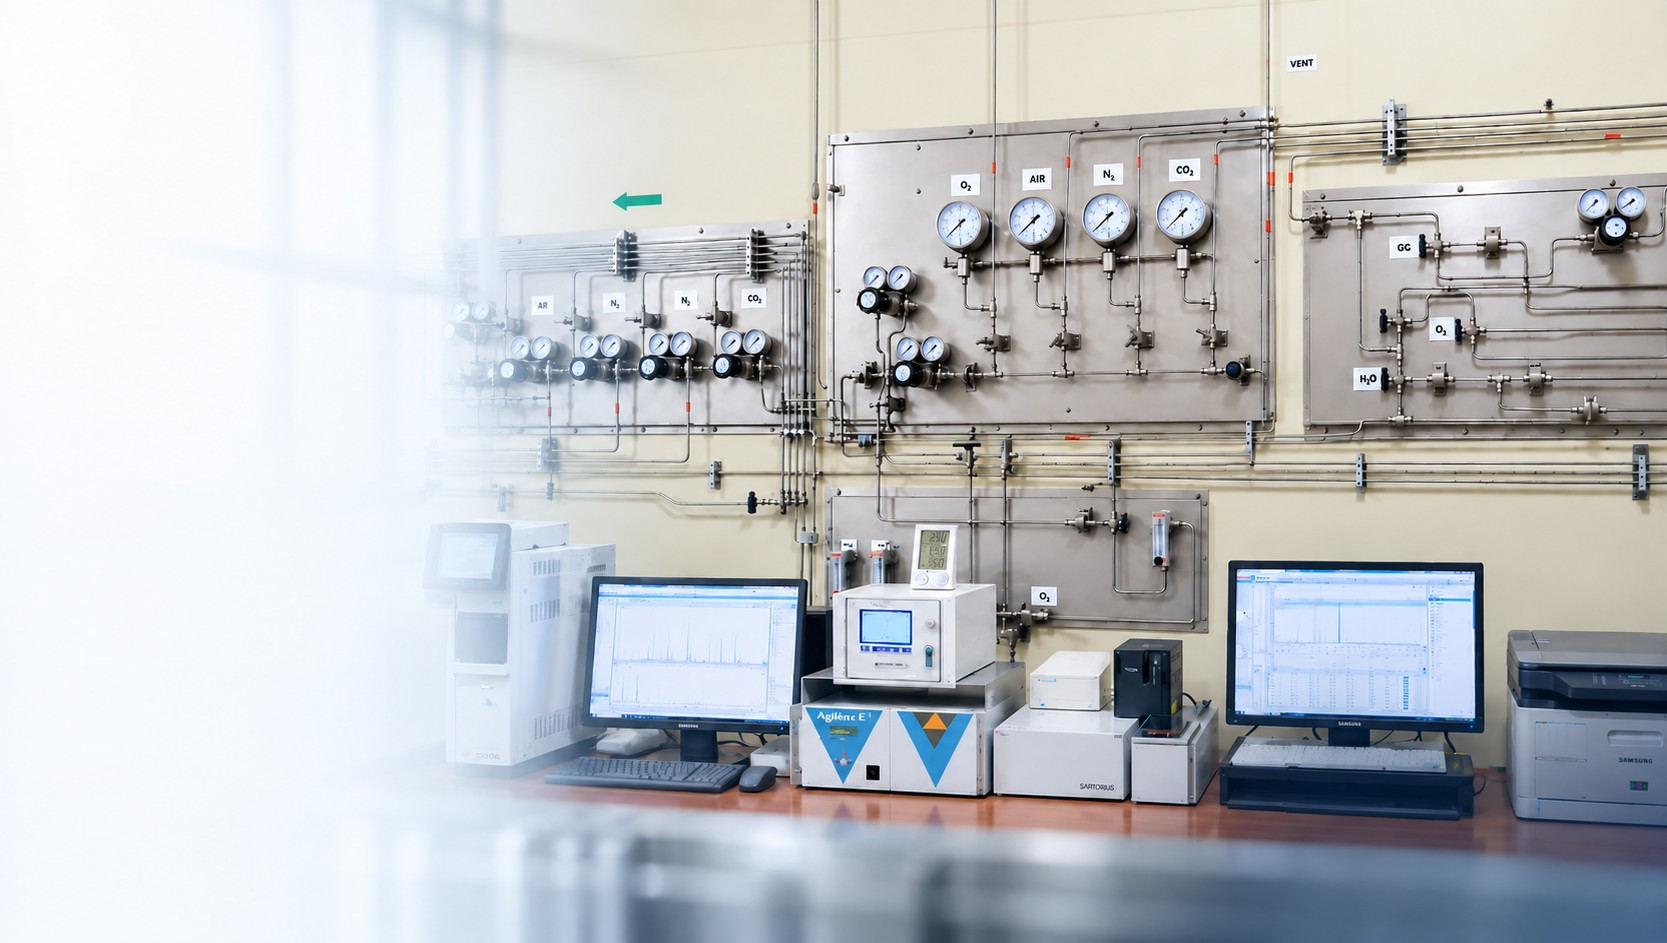
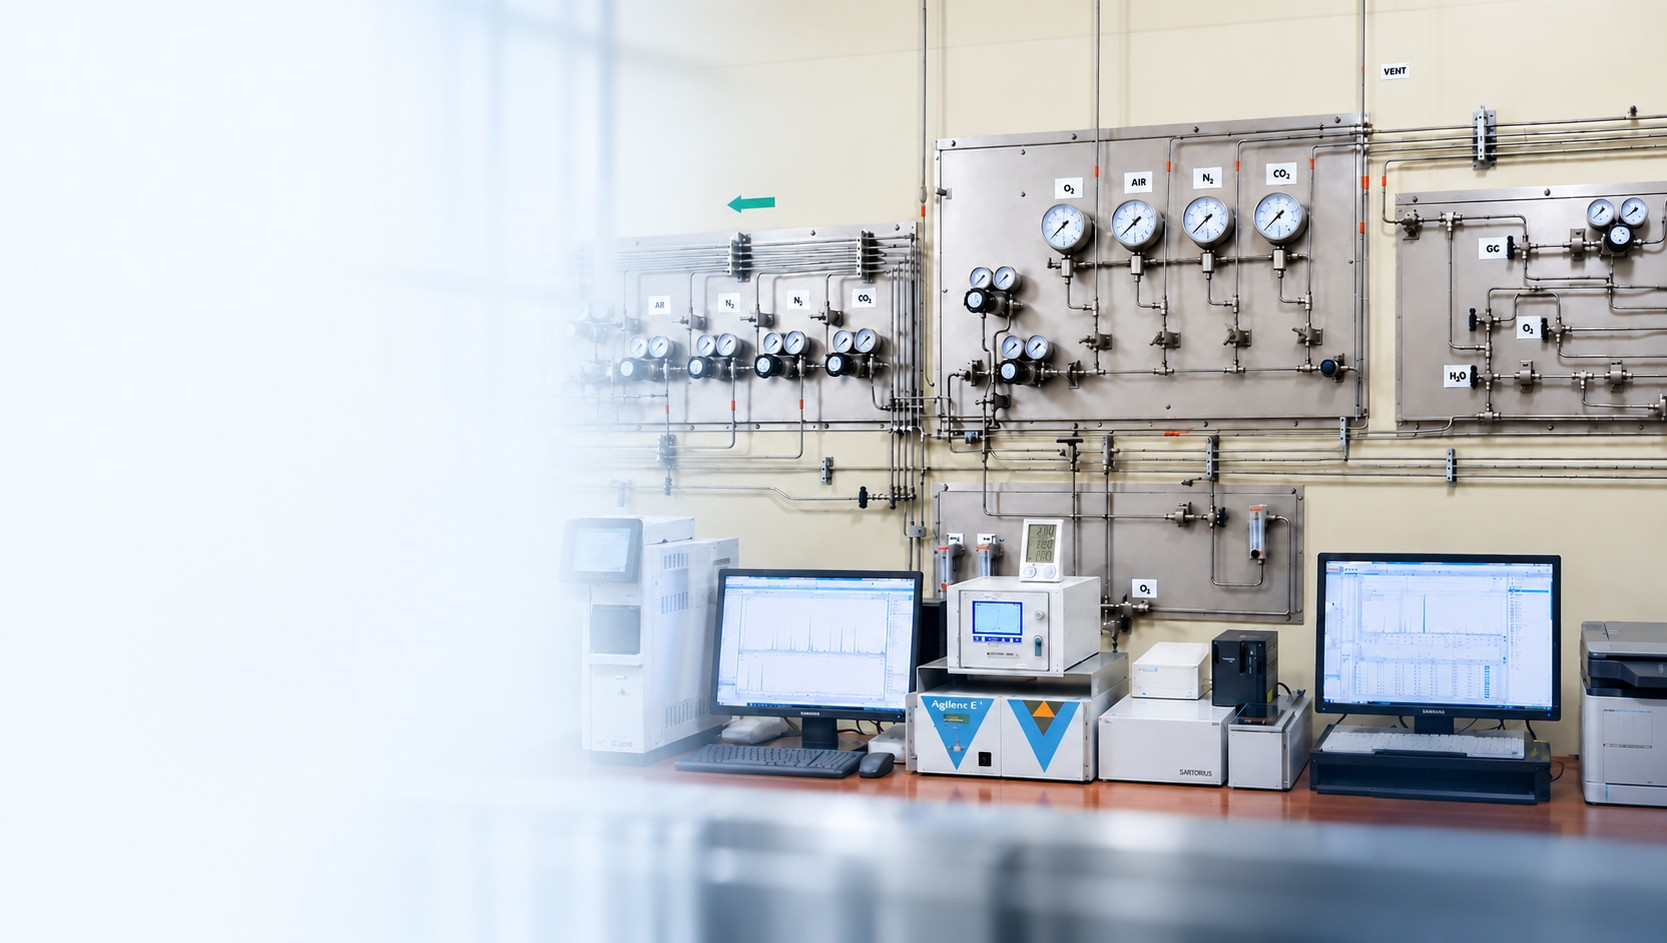
품질·인증 가스분석실 사진을 신규 이미지로 교체(gas-analysis-lab?v=2), 크기 동일 유지·그림자 제거. style.css ?v=616

diff --git a/assets/css/style.css b/assets/css/style.css
@@ -2299,7 +2299,7 @@ html[lang="en"] .greeting__sign .sign-name { display: block; margin-left: 0; mar
 .qlab__bg { position: absolute; inset: 0; width: 100%; height: 100%; object-fit: cover; object-position: right center; transform: scale(0.85); transform-origin: right center; z-index: 0; }
 /* 배경 이미지만 표시(넓은 배너 크롭) */
 .qlab--imgonly { background: none; box-shadow: none; border-radius: 0; overflow: visible; }
-.qlab--imgonly .qlab__bg { position: static; inset: auto; width: 70%; max-width: none; height: auto; aspect-ratio: 1.95 / 1; object-fit: cover; object-position: center; transform: none; display: block; margin: 0 auto; border-radius: var(--radius-lg); box-shadow: var(--shadow-md); }
+.qlab--imgonly .qlab__bg { position: static; inset: auto; width: 70%; max-width: none; height: auto; aspect-ratio: 1.95 / 1; object-fit: cover; object-position: center; transform: none; display: block; margin: 0 auto; border-radius: var(--radius-lg); box-shadow: none; }
 .qlab__panel { position: relative; z-index: 1; width: min(52%, 500px); min-height: 340px; padding: var(--space-8) var(--space-8) var(--space-7); background: linear-gradient(100deg, rgba(243,247,252,.98) 62%, rgba(243,247,252,.82) 82%, rgba(243,247,252,0) 100%); display: flex; flex-direction: column; justify-content: center; }
 .qlab__eyebrow { font-size: .8rem; font-weight: 800; letter-spacing: .18em; color: var(--brand); }
 .qlab__title { margin: var(--space-2) 0 var(--space-4); font-size: clamp(2rem, 3.2vw, 2.6rem); font-weight: 800; color: var(--text); letter-spacing: -.01em; }

diff --git a/quality.html b/quality.html
@@ -7,7 +7,7 @@
   <meta name="description" content="고순도 제조 역량, 식품첨가물 탄산가스 품질, 용기검사장, Gas Service Team.">
   <link rel="stylesheet" href="assets/css/reset.css">
   <link rel="stylesheet" href="assets/css/variables.css?v=20260801">
-  <link rel="stylesheet" href="assets/css/style.css?v=20260731-615">
+  <link rel="stylesheet" href="assets/css/style.css?v=20260731-616">
 </head>
 <body>
 
@@ -140,7 +140,7 @@
     <section class="section section--soft" id="purity">
       <div class="container">
         <div class="qlab qlab--imgonly">
-          <img class="qlab__bg" src="assets/images/site/gas-analysis-lab.jpg?v=1" alt="가스분석실 — 정밀 분석장비" loading="lazy">
+          <img class="qlab__bg" src="assets/images/site/gas-analysis-lab.jpg?v=2" alt="가스분석실 — 정밀 분석장비" loading="lazy">
         </div>
       </div>
     </section>

diff --git a/company.html b/company.html
@@ -7,7 +7,7 @@
   <meta name="description" content="한국탄산화학㈜ 회사소개 — 회사 개요, 주요 사업 영역, 연혁, 조직도, 생산시설 및 강점.">
   <link rel="stylesheet" href="assets/css/reset.css">
   <link rel="stylesheet" href="assets/css/variables.css?v=20260801">
-  <link rel="stylesheet" href="assets/css/style.css?v=20260731-615">
+  <link rel="stylesheet" href="assets/css/style.css?v=20260731-616">
   <!-- 대표이사 서명용 손글씨 폰트 (한글: Nanum Pen Script, 일어: Yomogi) -->
   <link rel="preconnect" href="https://fonts.googleapis.com">
   <link rel="preconnect" href="https://fonts.gstatic.com" crossorigin>

diff --git a/company-overview.html b/company-overview.html
@@ -8,7 +8,7 @@
   <meta name="description" content="한국탄산화학㈜ 회사 개요와 조직도 — 상호·설립·사업분야·생산제품 및 조직 구성.">
   <link rel="stylesheet" href="assets/css/reset.css">
   <link rel="stylesheet" href="assets/css/variables.css?v=20260801">
-  <link rel="stylesheet" href="assets/css/style.css?v=20260731-615">
+  <link rel="stylesheet" href="assets/css/style.css?v=20260731-616">
   <!-- 대표이사 서명용 손글씨 폰트 (한글: Nanum Pen Script, 일어: Yomogi) -->
   <link rel="preconnect" href="https://fonts.googleapis.com">
   <link rel="preconnect" href="https://fonts.gstatic.com" crossorigin>

diff --git a/company-network.html b/company-network.html
@@ -7,7 +7,7 @@
   <meta name="description" content="한국탄산화학㈜ 계열사 — 관계사 네트워크.">
   <link rel="stylesheet" href="assets/css/reset.css">
   <link rel="stylesheet" href="assets/css/variables.css?v=20260801">
-  <link rel="stylesheet" href="assets/css/style.css?v=20260731-615">
+  <link rel="stylesheet" href="assets/css/style.css?v=20260731-616">
   <!-- 대표이사 서명용 손글씨 폰트 (한글: Nanum Pen Script, 일어: Yomogi) -->
   <link rel="preconnect" href="https://fonts.googleapis.com">
   <link rel="preconnect" href="https://fonts.gstatic.com" crossorigin>

diff --git a/products-supply.html b/products-supply.html
@@ -7,7 +7,7 @@
   <meta name="description" content="고압가스 용기 재검사 — 한국가스안전공사 지정 전문검사기관 ㈜부성테크니컬(계열사)이 접수·내압시험·표면처리·판정의 4단계 검사로 용기 안전을 책임집니다.">
   <link rel="stylesheet" href="assets/css/reset.css">
   <link rel="stylesheet" href="assets/css/variables.css?v=20260801">
-  <link rel="stylesheet" href="assets/css/style.css?v=20260731-615">
+  <link rel="stylesheet" href="assets/css/style.css?v=20260731-616">
 </head>
 <body>
 

diff --git a/products-ice.html b/products-ice.html
@@ -7,7 +7,7 @@
   <meta name="description" content="드라이아이스 너겟·블록 생산설비 日産 36톤. 고밀도 1.60g/㎤·고순도 99.995% 식품용 드라이아이스와 제조공정·용도·취급안전을 소개합니다.">
   <link rel="stylesheet" href="assets/css/reset.css">
   <link rel="stylesheet" href="assets/css/variables.css?v=20260801">
-  <link rel="stylesheet" href="assets/css/style.css?v=20260731-615">
+  <link rel="stylesheet" href="assets/css/style.css?v=20260731-616">
 </head>
 <body>
 

diff --git a/index.html b/index.html
@@ -7,7 +7,7 @@
   <meta name="description" content="한국탄산화학㈜(KLCC)는 산소·질소·아르곤·탄산·수소 등 산업용·의료용 가스와 드라이아이스를 제조·공급하는 전문기업입니다.">
   <link rel="stylesheet" href="assets/css/reset.css">
   <link rel="stylesheet" href="assets/css/variables.css?v=20260801">
-  <link rel="stylesheet" href="assets/css/style.css?v=20260731-615">
+  <link rel="stylesheet" href="assets/css/style.css?v=20260731-616">
 </head>
 <body>
 

diff --git a/products-construction.html b/products-construction.html
@@ -7,7 +7,7 @@
   <meta name="description" content="가스 설비 시설·시공 — 액화가스 저장탱크·기화설비·배관·공급설비를 설계부터 시운전·사후관리까지 원스톱으로 시공합니다.">
   <link rel="stylesheet" href="assets/css/reset.css">
   <link rel="stylesheet" href="assets/css/variables.css?v=20260801">
-  <link rel="stylesheet" href="assets/css/style.css?v=20260731-615">
+  <link rel="stylesheet" href="assets/css/style.css?v=20260731-616">
 </head>
 <body>
 

diff --git a/products-gas.html b/products-gas.html
@@ -7,7 +7,7 @@
   <meta name="description" content="산업용·의료용·혼합·특수·액화석유가스 — 고순도 산소·질소·아르곤·수소·헬륨·탄산·LPG를 Bulk·실린더로 공급·제조합니다.">
   <link rel="stylesheet" href="assets/css/reset.css">
   <link rel="stylesheet" href="assets/css/variables.css?v=20260801">
-  <link rel="stylesheet" href="assets/css/style.css?v=20260731-615">
+  <link rel="stylesheet" href="assets/css/style.css?v=20260731-616">
 </head>
 <body>
 

diff --git a/support.html b/support.html
@@ -7,7 +7,7 @@
   <meta name="description" content="한국탄산화학 고객지원 — 사업장 연락처, 자주 묻는 질문.">
   <link rel="stylesheet" href="assets/css/reset.css">
   <link rel="stylesheet" href="assets/css/variables.css?v=20260801">
-  <link rel="stylesheet" href="assets/css/style.css?v=20260731-615">
+  <link rel="stylesheet" href="assets/css/style.css?v=20260731-616">
 </head>
 <body>
 
